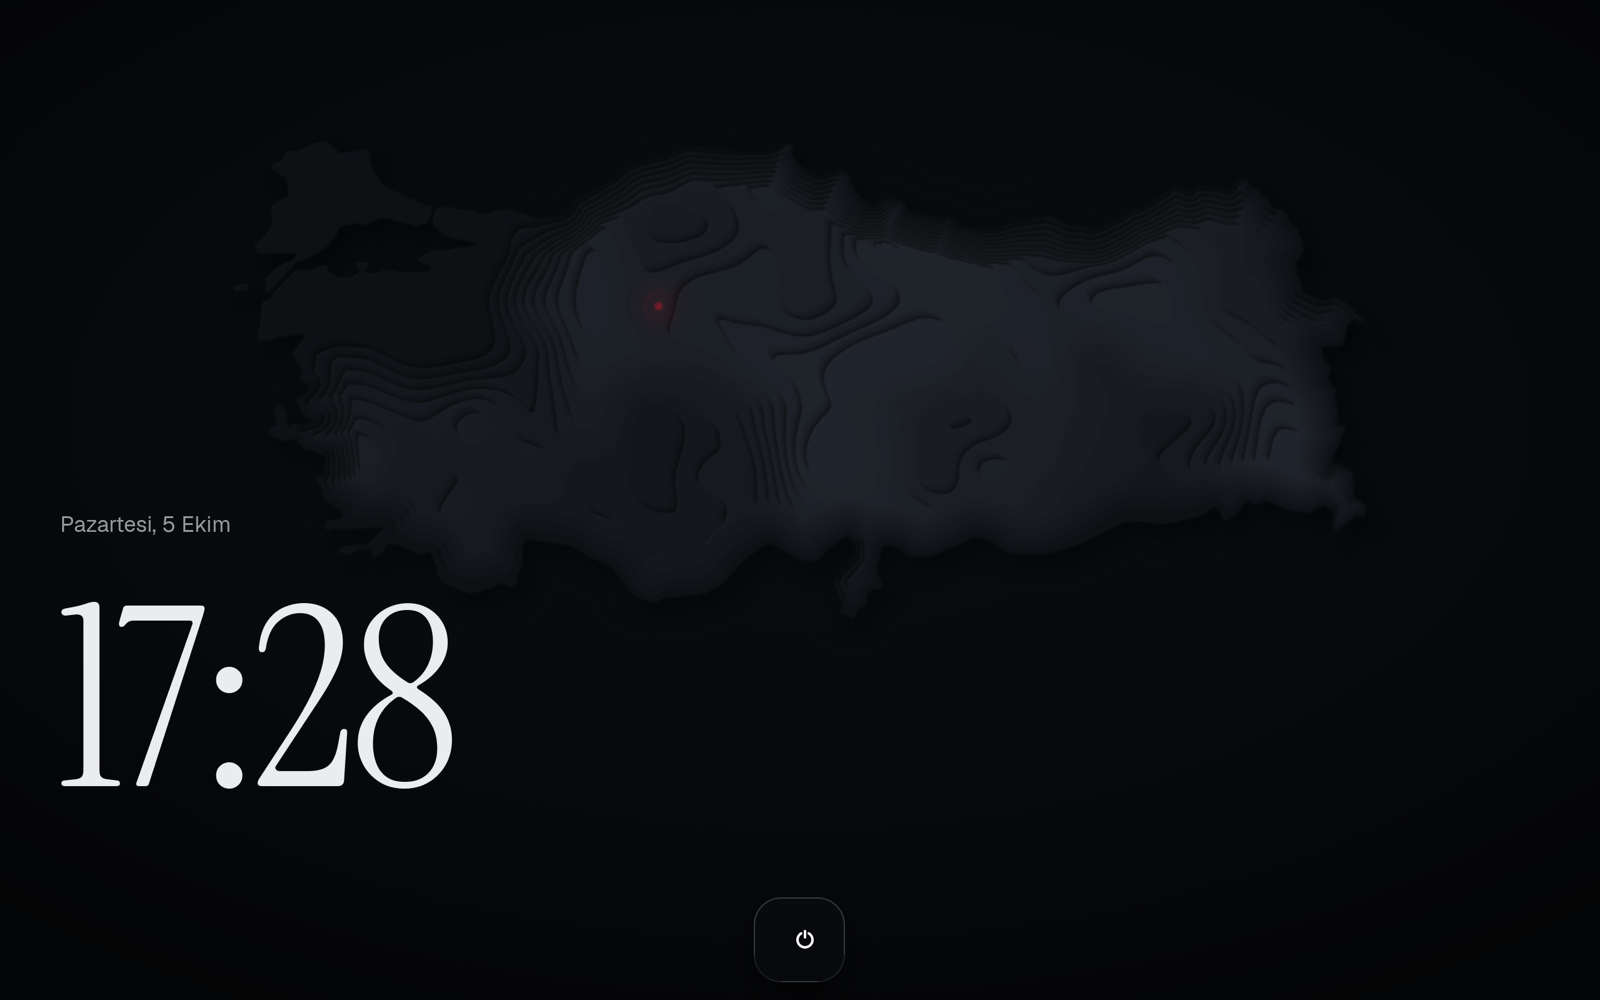
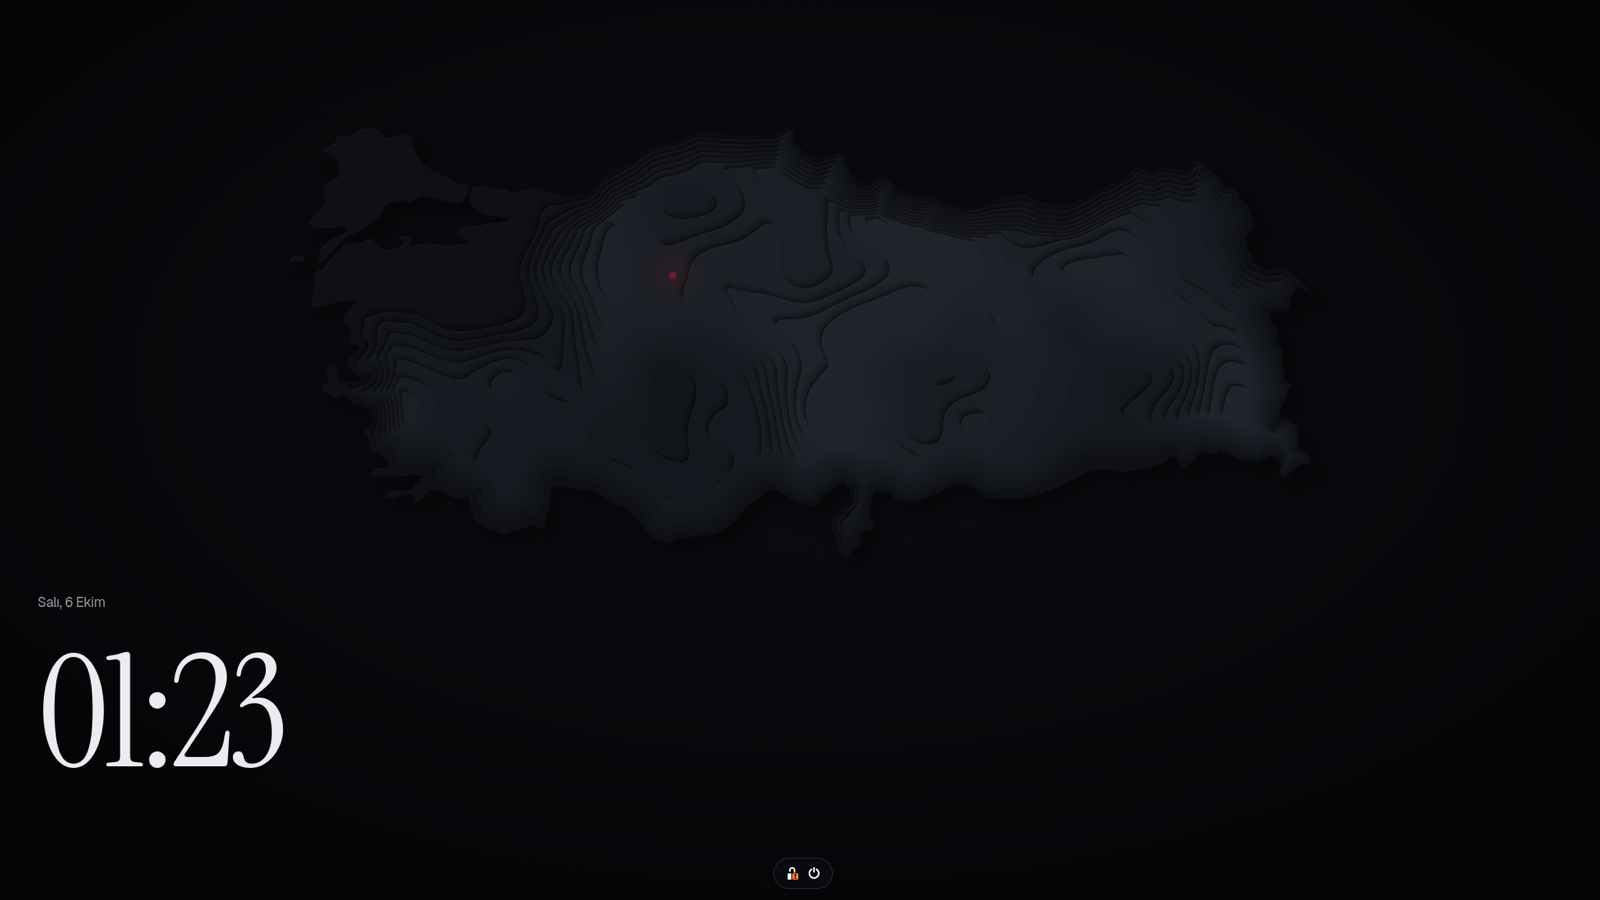
Refresh screenshots and release notes for 0.1.0
Seven screenshots of the current design replace the four from before
the redesign, and the notes now cover everything this release ships
and what it does not do yet.

diff --git a/docs/surum-notlari/v0.1.0.md b/docs/surum-notlari/v0.1.0.md
@@ -1,4 +1,4 @@
-VATAN'ın ilk sürümü. Pardus 25 GNOME'a ayrı bir oturum olarak kurulur; GNOME'un hiçbir dosyasını değiştirmez.
+VATAN'ın ilk sürümü, **ön sürüm** olarak. Pardus 25 GNOME'a ayrı bir oturum olarak kurulur; GNOME'un hiçbir dosyasını değiştirmez, giriş ekranından istediğin zaman GNOME'a dönebilirsin.
 
 **Kurulum**
 
@@ -10,24 +10,23 @@ Oturumu kapat, giriş ekranındaki dişli menüsünden **VATAN**'ı seç.
 
 **Bu sürümde**
 
-- Ekranın altında ada: uygulamalar, Komut, alan düğmesi, hızlı ayarlar, saat. Üzerine gelinen ikon yükselir, açılan uygulama zıplar. Menüler, bildirimler ve ses/parlaklık göstergesi adanın üstünde açılır.
-- Komut (`Super`): uygulama, dosya, ayar, hesap makinesi ve Türkçe eylemler (`karanlık`, `odak`, `gece ışığı`, `parlaklık 40`, `ses 30`, `yan yana diz`, `kilitle`, vurgu rengi).
-- Komut'ta kur ve birim çevirisi (TCMB), e-Devlet ve kamu hizmeti kısayolları, fiille Pardus araçları.
-- Canlı Ada'da çalan müzik; ilk girişte tanıtım turu.
-- VATAN Ayarları uygulaması: görünüm, Gündem, Komut ve tur ayarları.
-- Canlı Ada: Komut'a `çay 3 dk` ya da `18:30 toplantı` yazınca ada geri sayımı gösterir, süre dolunca kırmızıya döner ve bildirim gönderir.
-- Adadaki ızgara düğmesiyle bütün uygulamalar.
-- Masaüstünde Gündem kartı (TRT Haber son dakika) ve dock'ta NSosyal kısayolu.
-- Kenara sürükleyerek pencere yerleştirme, vurgu renginde önizleme.
-- Kilit ekranında sol altta büyük saat; arka plan karartılır, bulanıklaştırılmaz.
-- Geist ve Instrument Serif yazı tipleri, kat kat yükselen kabartma Türkiye haritası duvar kağıdı (açık ve koyu), kırmızı klasörlü VATAN simge teması; kabuk ve uygulamalar aynı kırmızıyı kullanır.
+- **Ada:** üst bar yerine ekranın altında tek yüzey: uygulamalar, Komut, alan düğmesi, hızlı ayarlar, saat. Menüler ve bildirimler adanın üstünde açılır.
+- **Komut (`Super`):** uygulama, dosya, ayar ve hesap makinesinin yanında Türkçe eylemler: `karanlık`, `parlaklık 40`, `ses 30`, `yan yana diz`, `kilitle`; `100 dolar` (TCMB kuru), `5 km kaç mil`; `e-devlet`, `mhrs`, `e-nabız`; `biçimlendir`, `iso yaz`, `güncelle`; `pano` ile son kopyalananlar.
+- **Canlı Ada:** `çay 3 dk`, `18:30 toplantı` ile adada geri sayım; çalan müzik de adada.
+- **VATAN Ayarları:** biçem, vurgu rengi, animasyon hızı, simgeler, duvar kağıdı, masaüstü simgeleri, uygulama görünümü, Gündem, zamanlı odak, tur.
+- **VATAN Posta:** IMAP/SMTP e-posta uygulaması; HTML'de betik çalışmaz, uzak görseller izinle yüklenir.
+- **Masaüstü:** dosya ve klasörler; sağ tıkla yeni klasör ve Yeni Belge (metin, Writer, Calc, Impress).
+- **Pencereler:** sürükleyerek yarım ve çeyrek ekran, `Super+↑/↓` ile çeyrekler; uygulamalarda VATAN pencere görünümü.
+- **Görünüm:** 47 sistem uygulaması simgesi, VATAN imleçleri, yedi kabartma duvar kağıdı (her biri açık ve koyu), Geist ve Instrument Serif yazı tipleri.
+- **İsteğe bağlı:** VATAN açılış ekranı (Plymouth) ve VATAN giriş ekranı; nasıl açılacakları README'de.
 
 **Bilinen sınırlar**
 
-- Giriş ekranı Pardus'unkidir.
-- Paneli, dock'u ya da genel bakışı değiştiren eklentiler ve masaüstü simgeleri VATAN oturumunda yüklenmez.
+- Bu bir ön sürüm. Gerçek bir Pardus 25 bilgisayarında ilk deneyenlerin geri bildirimlerini bekliyoruz; CI her derlemede paketi kurup kabuğu ekransız açıyor ama donanım üzerinde kullanılmadı.
+- VATAN Posta'da Gmail/Outlook gibi tarayıcıyla giriş yapılan (OAuth) hesaplar henüz açılmıyor.
+- Gündem kartı varsayılan olarak kapalı.
 - Ayarlar GNOME oturumuyla ortaktır. VATAN varsayılanları yalnızca değiştirilmemiş ayarlarda geçerlidir.
 - gnome-shell güvenlik düzeltmeleri VATAN'a yeni VATAN sürümleriyle ulaşır.
-- Wayland oturumunda denendi; X11 oturumu daha az denendi. amd64 paketi CI'da derlendi, gerçek Pardus 25 kurulumunda ilk geri bildirimleri bekliyoruz.
+- Wayland oturumunda denendi; X11 oturumu daha az denendi.
 
 `SHA256SUMS` dosyasıyla indirdiğin paketi doğrulayabilirsin: `sha256sum -c SHA256SUMS --ignore-missing`.

diff --git a/README.md b/README.md
@@ -4,9 +4,13 @@ Pardus 25 için masaüstü oturumu. Üst bar yerine ekranın altında tek bir ad
 
 ![VATAN masaüstü](docs/ekran/masaustu.png)
 
-| Komut | Karanlık tema | Kilit ekranı |
+| Komut | Canlı Ada | Uygulamalar |
 |---|---|---|
-| ![Komut](docs/ekran/komut.png) | ![Karanlık](docs/ekran/karanlik.png) | ![Kilit](docs/ekran/kilit.png) |
+| ![Komut](docs/ekran/komut.png) | ![Canlı Ada](docs/ekran/canli-ada.png) | ![Uygulamalar](docs/ekran/uygulamalar.png) |
+
+| VATAN Ayarları | Sağ tık: Yeni Belge | Kilit ekranı |
+|---|---|---|
+| ![VATAN Ayarları](docs/ekran/ayarlar.png) | ![Yeni Belge](docs/ekran/yeni-belge.png) | ![Kilit](docs/ekran/kilit.png) |
 
 - **Komut** — `Super` ile açılır. Uygulama, dosya, ayar ve hesap makinesi sonuçlarının yanında Türkçe eylemleri anlar: `karanlık`, `odak`, `gece ışığı`, `parlaklık 40`, `ses 30`, `yan yana diz`, `kilitle`.
   - Kur ve birim: `100 dolar`, `1.000 tl euro` (TCMB döviz satış kuru), `5 km kaç mil`, `100 f c`. Enter sonucu kopyalar.
